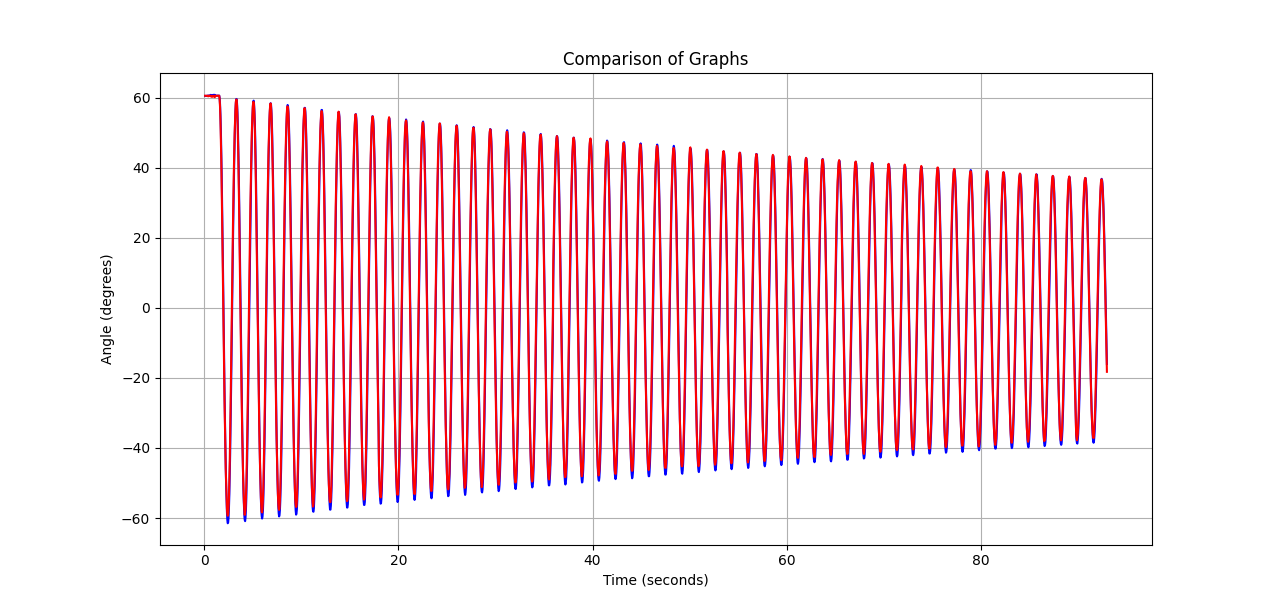
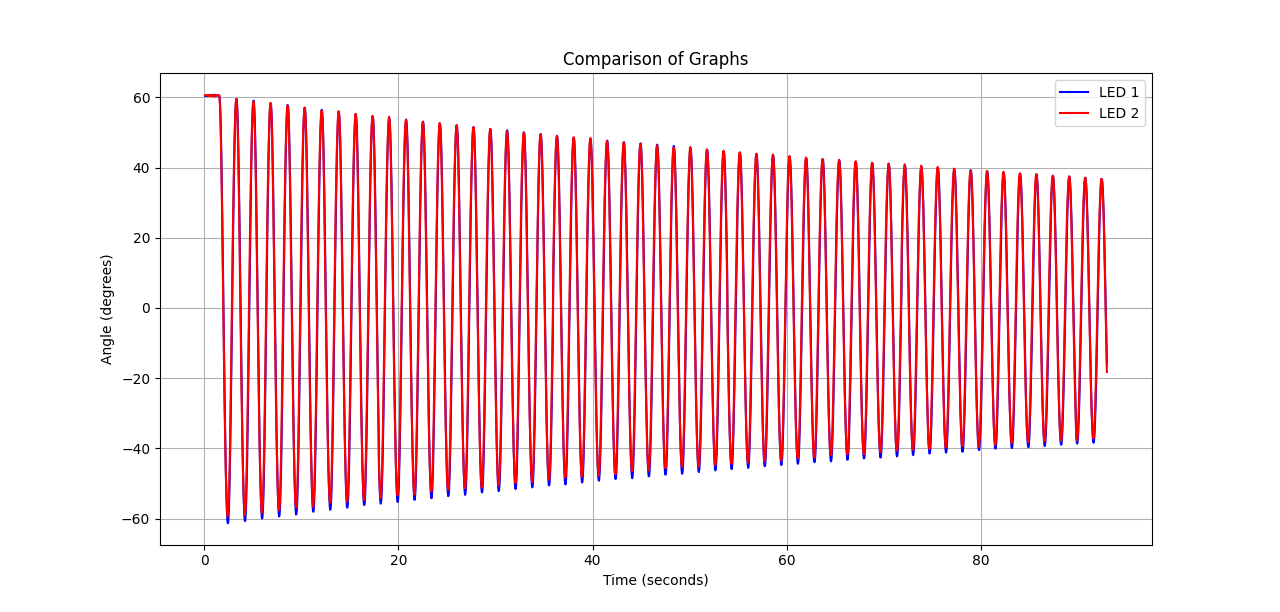
add a legend to the comparison graph cause a friend compained (reasonably)

Changed region(s): [[0.125, 0.1242, 0.9062, 0.2173], [0.125, 0.8382, 0.875, 0.8693], [0.0938, 0.7141, 0.125, 0.7451]]

diff --git a/VideoProcessing/VideoProcessing.py b/VideoProcessing/VideoProcessing.py
@@ -4,8 +4,8 @@ import matplotlib.pyplot as plt
 import os
 import json
 
-video_name = 'DSC_0059' # name of the video you want to graph *dont include .AVI (see line 57 if it's not an AVI file)*
-brightness_value = 140 # Use 140 for low aperture videos like DSC_0059, 245 for any other videos
+video_name = 'DSC_0053' # name of the video you want to graph *dont include .AVI (see line 57 if it's not an AVI file)*
+brightness_value = 240 # Use 140 for low aperture videos like DSC_0059, 245 for any other videos
 
 path_to_videos = 'C:\\Users\\adamf\\OneDrive\\Desktop\\IPL\\Double Pendulum\\Videos\\' # wherever you have videos on your local device
 path_to_data = 'C:\\Users\\adamf\\Downloads\\' # wherever you want to save the already processed video data

diff --git a/README.md b/README.md
@@ -40,10 +40,17 @@ Also as a litte note, if you see a reflection of the LEDs in the video (from the
 ## How to Use the Code  
 The basic most surface level interfacing with the code is simply sticking to lines 7-11. Change the name of the video (don't include the file type there), change all the paths to fit your local device, keeping in mind the comments in the code. **Adjust the brightness values if and only if the computer vision detection of the LEDs is spotty**, use value like 140 for low aperture videos, use values really high like 245 for videos taken on auto or high aperture. This value is largely guess and check, I couldn't find a way to automate it (please try to impove this aspect of the code that would be SO cool).  
 We used Professor Noviello's camera provided for us, so the videos are in AVI format, if you have a different format you have to look through the code to change instances of ".AVI" and maybe decode. I tried imputting a phone video and it rotated it 90 degrees, I'm not sure why.  
+## Results  
+Here is a video we took:  
+[text](VideoProcessing/currentState/videos/DSC_0059.AVI)
+Here is the graph resulting from the LED tracking:  
+![alt text](VideoProcessing/currentState/images/current_state_graph_DSC_0059.png)
+Another graph and video is available in the current state folder of the video processing folder.  
 # Simulation  
 To be developed!  
 # Poster  
-To be made!  
+Here is an attached image of our poster:  
+*image here*
 # Credits  
 Made by Christopher Pacheco and Adam Field.  
 Thank you Professor Noviello and TAs Drew and Holden for all the help.
